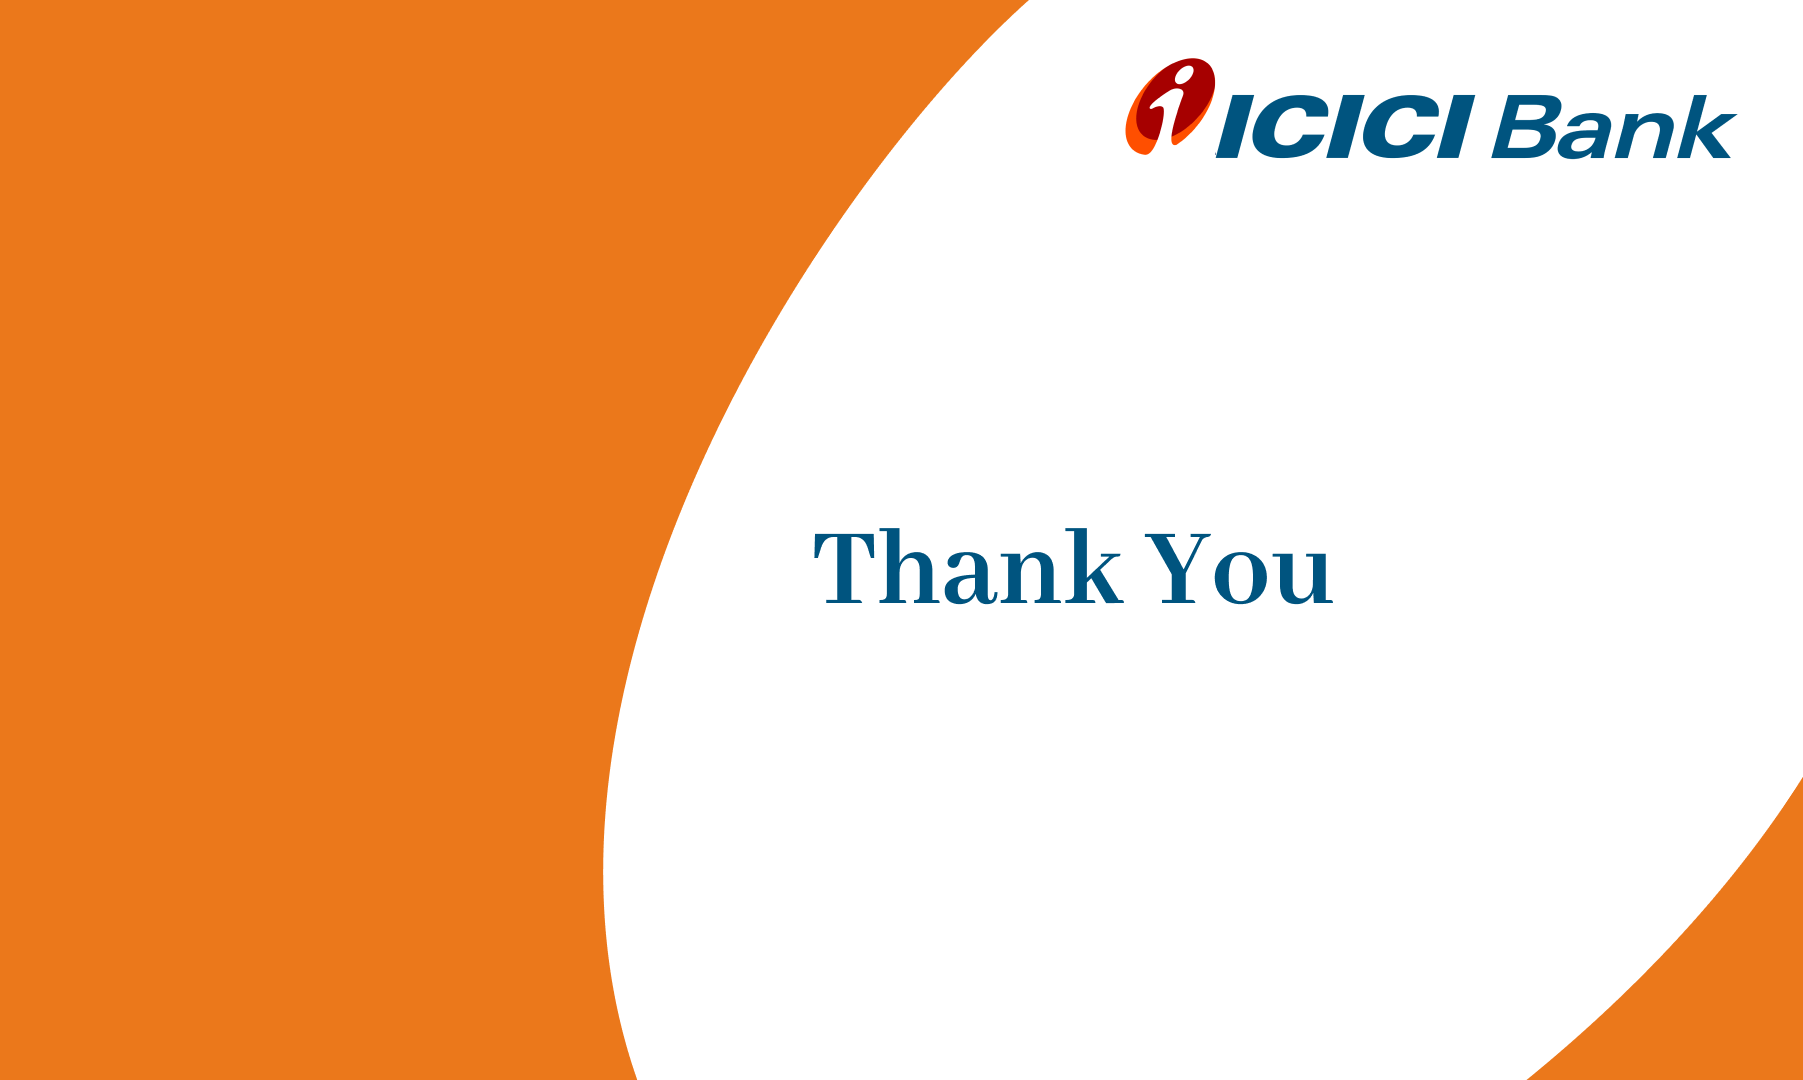
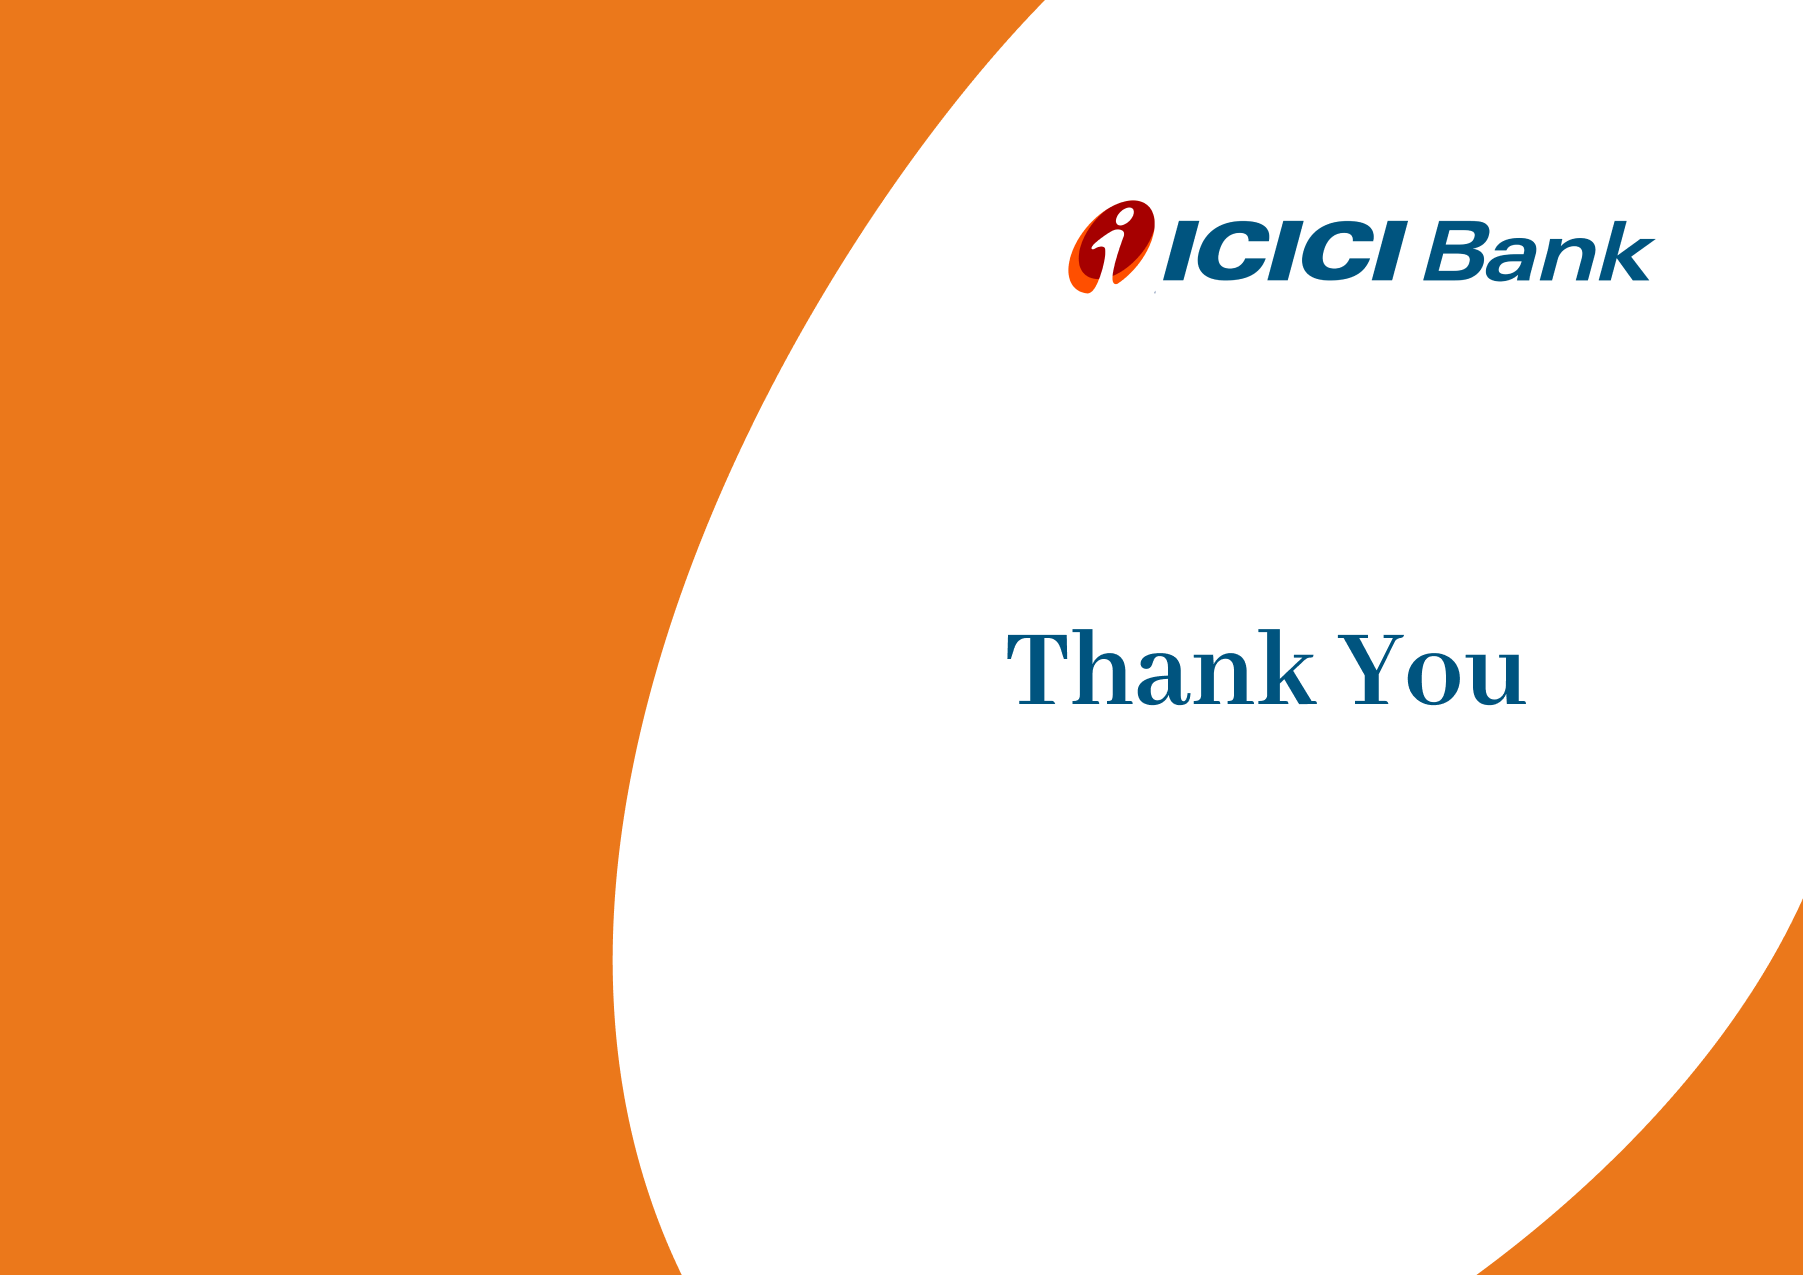
new pages added

diff --git a/templates/annexure.html b/templates/annexure.html
@@ -18,6 +18,6 @@
     </style>
 </head>
 <body>
-    <img class="fullscreen-image" src="../assets/images/thank_you.png" alt="Thank You">
+    <img class="fullscreen-image" src="../assets/images/annexure.png" alt="Thank You">
 </body>
 </html>

diff --git a/main.py b/main.py
@@ -416,6 +416,7 @@ async def generate_investment_summary_report(
         twentyfour_page_filename = f"equity_analysis_summary_{timestamp}.pdf"
         twentyfive_page_filename = f"equity_mutual_fund_allocation_{timestamp}.pdf"
         thank_you_page_filename = f"thank_you_{timestamp}.pdf"
+        annexure_page_filename = f"annexure_{timestamp}.pdf"
         
         merged_filename = f"investment_summary_report_{timestamp}.pdf"
  
@@ -610,9 +611,19 @@ async def generate_investment_summary_report(
                 {"data": {}},
                 thank_you_page_filename
             ))
+
+            annexure_page_future = loop.run_in_executor(pool, lambda: report_generator.generate_pdf(
+                "annexure.html",
+                {"data": {}},
+                annexure_page_filename
+            ))
             
+<<<<<<< Updated upstream
        
             money_speak_page_path, intro_page_path, first_page_path, second_page_path, fourth_page_path, third_page_path, six_page_path, eighth_page_path , tenthth_page_path, eleventh_page_path, thirteenth_page_path, fifth_page_path , seventh_page_path, ninth_page_path, twelfth_page_path, fourteenth_page_path, fifteenth_page_path, eighteenth_page_path, nineteenth_page_path, twenteeth_page_path, twentyone_page_path, twentytwo_page_path, twentythree_page_path, twentyfour_page_path, twentyfive_page_path, thank_you_page_path = await asyncio.gather(money_speak_page_future,intro_page_future, first_page_future, second_page_future, fourth_page_future, third_page_future, sixth_page_future, eighth_page_future, tenth_page_future, eleventh_page_future, thirteenth_page_future, fifth_page_future, seventh_page_future, ninth_page_future, twelfth_page_future, fourteenth_page_future, fifteenth_page_future, eighteenth_page_future, nineteenth_page_future, twenteeth_page_future, twentyone_page_future, twentytwo_page_future, twentythree_page_future, twentyfour_page_future, twentyfive_page_future, thank_you_page_future)
+=======
+            first_page_path, second_page_path, fourth_page_path, third_page_path, six_page_path, eighth_page_path , tenthth_page_path, eleventh_page_path, thirteenth_page_path, fifth_page_path , seventh_page_path, ninth_page_path, twelfth_page_path, fourteenth_page_path, fifteenth_page_path, eighteenth_page_path, nineteenth_page_path, twenteeth_page_path, twentyone_page_path, twentytwo_page_path, twentythree_page_path, twentyfour_page_path, twentyfive_page_path, thank_you_page_path, annexure_page_path = await asyncio.gather(first_page_future, second_page_future, fourth_page_future, third_page_future, sixth_page_future, eighth_page_future, tenth_page_future, eleventh_page_future, thirteenth_page_future, fifth_page_future, seventh_page_future, ninth_page_future, twelfth_page_future, fourteenth_page_future, fifteenth_page_future, eighteenth_page_future, nineteenth_page_future, twenteeth_page_future, twentyone_page_future, twentytwo_page_future, twentythree_page_future, twentyfour_page_future, twentyfive_page_future, thank_you_page_future, annexure_page_future)
+>>>>>>> Stashed changes
        
         # Merge PDFs
         merger = PdfMerger()
@@ -633,6 +644,7 @@ async def generate_investment_summary_report(
         merger.append(str(thirteenth_page_path))
         merger.append(str(fourteenth_page_path))
         merger.append(str(fifteenth_page_path))
+        merger.append(str(annexure_page_path))
         merger.append(str(eighteenth_page_path))
         merger.append(str(nineteenth_page_path))
         merger.append(str(twenteeth_page_path))
@@ -669,6 +681,7 @@ async def generate_investment_summary_report(
         background_tasks.add_task(lambda: Path(thirteenth_page_path).unlink(missing_ok=True))
         background_tasks.add_task(lambda: Path(fourteenth_page_path).unlink(missing_ok=True))
         background_tasks.add_task(lambda: Path(fifteenth_page_path).unlink(missing_ok=True))
+        background_tasks.add_task(lambda: Path(annexure_page_path).unlink(missing_ok=True))
         background_tasks.add_task(lambda: Path(eighteenth_page_path).unlink(missing_ok=True))
         background_tasks.add_task(lambda: Path(nineteenth_page_path).unlink(missing_ok=True))
         background_tasks.add_task(lambda: Path(twenteeth_page_path).unlink(missing_ok=True))
